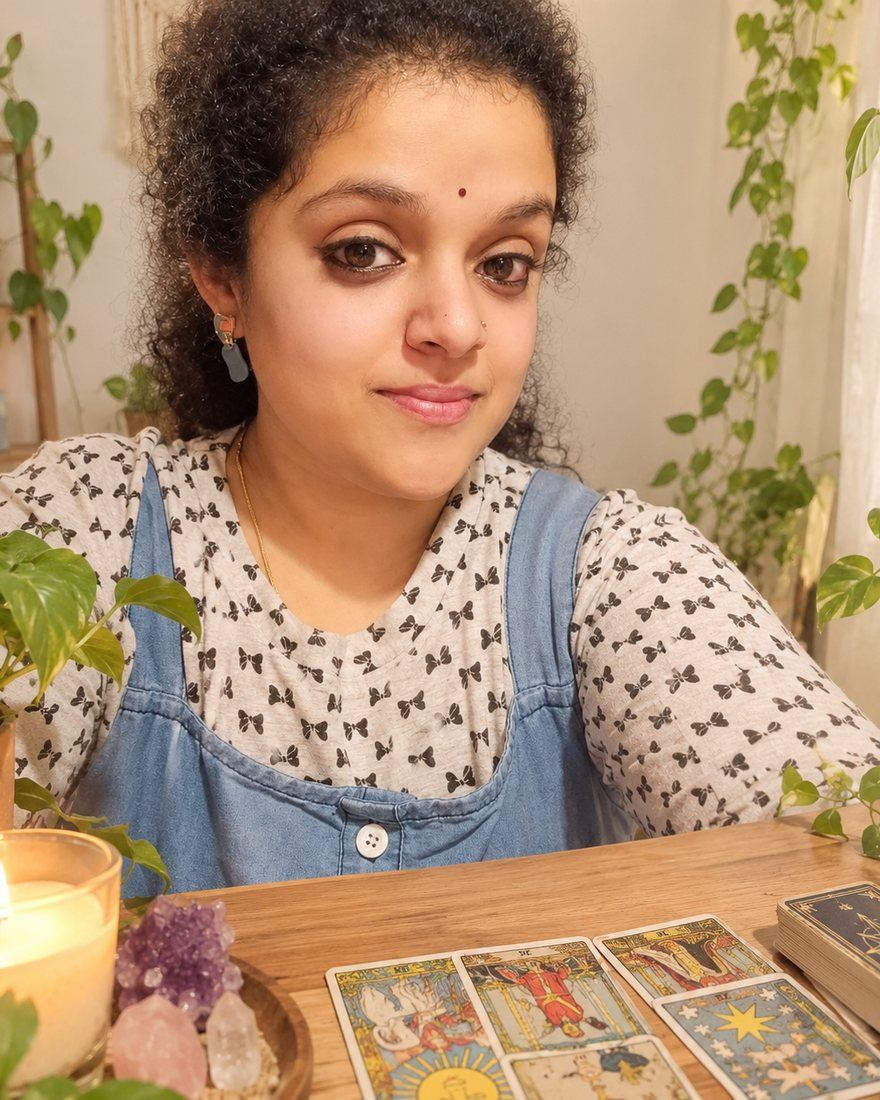
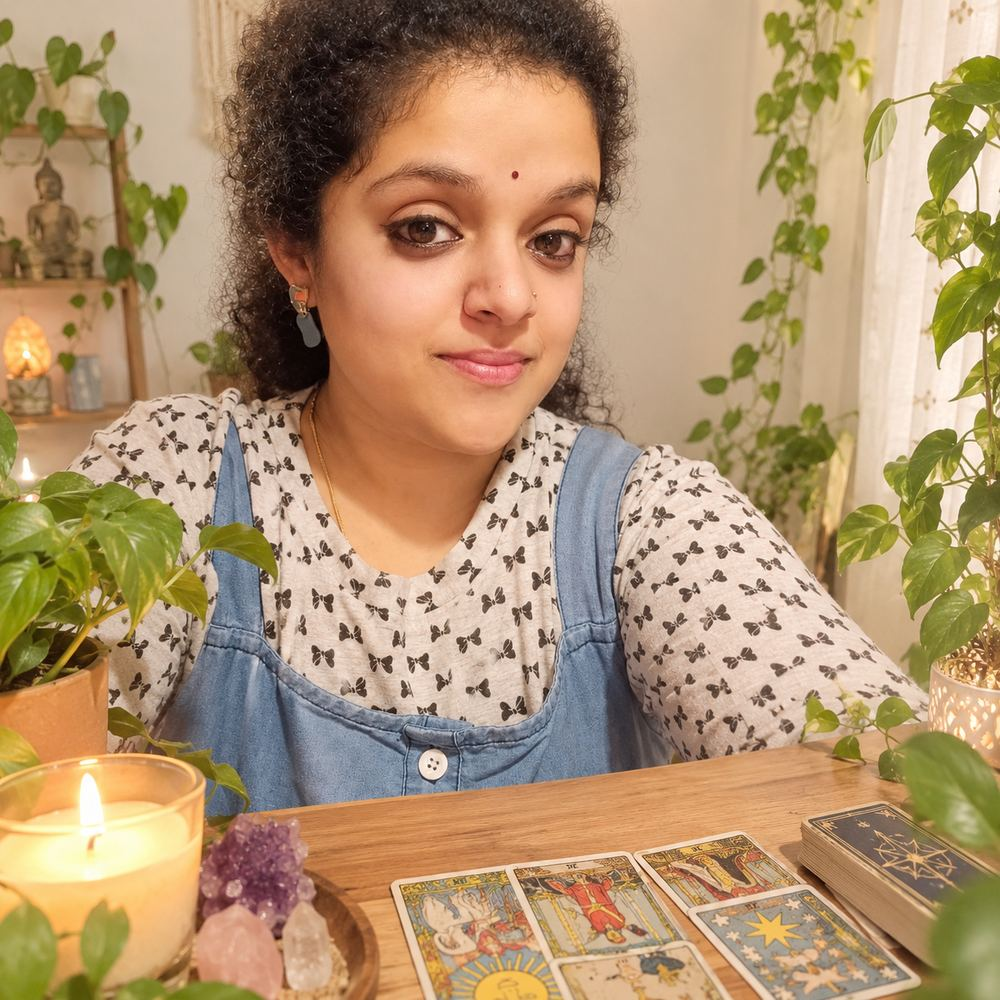
Profile photo: full scene, softer frame so her head isn't cut
Claude-Session: https://claude.ai/code/session_01PuroXNgqwe9HEbsstd7FGE

diff --git a/index.html b/index.html
@@ -392,10 +392,10 @@ main,header,footer{position:relative;z-index:2}
 
 
 /* profile portrait */
-.portrait{position:relative;margin:0;justify-self:center;width:min(100%,400px);display:flex;flex-direction:column;align-items:center;gap:18px}
-.portrait .arch{position:relative;width:100%;aspect-ratio:4/5;border-radius:200px 200px 22px 22px;padding:8px;background:linear-gradient(150deg,#F2D99C,#A07E3E 40%,#E9CB86 65%,#8C6A2E);box-shadow:0 30px 70px -30px #000,0 0 60px -20px rgba(212,176,106,.55)}
-.portrait .arch img{width:100%;height:100%;object-fit:cover;object-position:50% 30%;border-radius:192px 192px 16px 16px;display:block}
-.portrait .arch::after{content:"";position:absolute;inset:-14px;border-radius:214px 214px 30px 30px;border:1px solid rgba(212,176,106,.35);pointer-events:none}
+.portrait{position:relative;margin:0;justify-self:center;width:min(100%,430px);display:flex;flex-direction:column;align-items:center;gap:18px}
+.portrait .arch{position:relative;width:100%;aspect-ratio:1/1.08;border-radius:52px 52px 22px 22px;padding:8px;background:linear-gradient(150deg,#F2D99C,#A07E3E 40%,#E9CB86 65%,#8C6A2E);box-shadow:0 30px 70px -30px #000,0 0 60px -20px rgba(212,176,106,.55)}
+.portrait .arch img{width:100%;height:100%;object-fit:cover;object-position:50% 0%;border-radius:45px 45px 16px 16px;display:block}
+.portrait .arch::after{content:"";position:absolute;inset:-14px;border-radius:64px 64px 30px 30px;border:1px solid rgba(212,176,106,.35);pointer-events:none}
 .portrait .ph{position:absolute;top:-22px;left:50%;transform:translateX(-50%);display:flex;gap:8px;padding:8px 14px;border-radius:999px;background:var(--bg);border:1px solid rgba(212,176,106,.45)}
 .portrait .ph i{width:16px;height:16px;border-radius:50%;background:radial-gradient(circle at 40% 35%,#F5DFA6,#C59A4E 70%);box-shadow:0 0 12px -2px rgba(242,217,156,.7)}
 .portrait .ph i:nth-child(1){-webkit-mask-image:radial-gradient(circle at 75% 50%,transparent 46%,#000 47%);mask-image:radial-gradient(circle at 75% 50%,transparent 46%,#000 47%)}
@@ -622,7 +622,7 @@ main,header,footer{position:relative;z-index:2}
   <section class="block" id="about">
     <div class="wrap about">
       <figure class="portrait reveal">
-        <div class="arch"><img src="vinita.jpg" alt="Vinita Aryasomayajula at her reading table with tarot cards, crystals and a candle" loading="lazy" width="880" height="1100"></div>
+        <div class="arch"><img src="vinita.jpg" alt="Vinita Aryasomayajula at her reading table with tarot cards, crystals and a candle" loading="lazy" width="1000" height="1000"></div>
         <div class="ph" aria-hidden="true"><i></i><i></i><i></i></div>
         <figcaption><b>Vinita Aryasomayajula</b><span>Tarot Reader · Intuitive Guide · Healer</span></figcaption>
       </figure>
